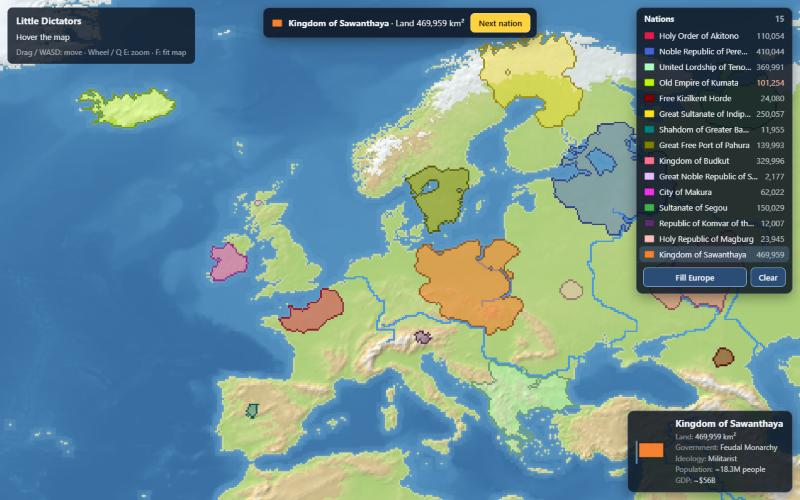
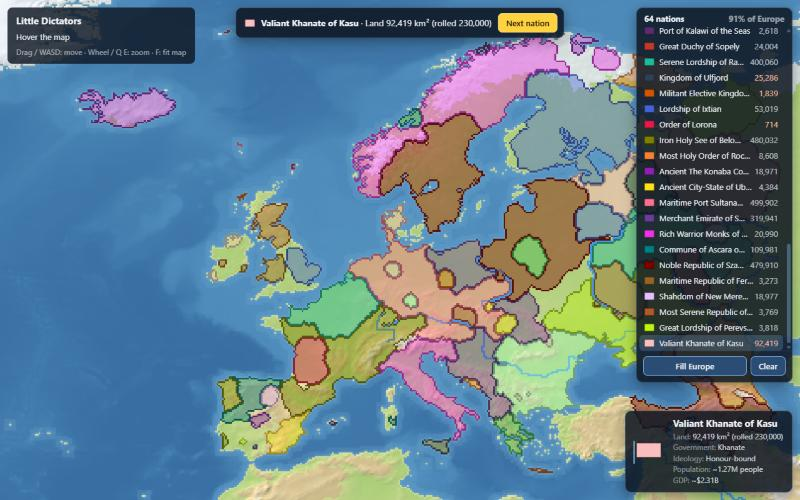
Fill Europe up to 90% of its land, with neighbour-aware colours
"Fill Europe" now keeps placing nations until fill.percent (90) of the
region's land is owned (usually 50-80 nations, ~0.1-0.3 s), capped by
maxNations and maxAttempts. Nations placed by Fill get a colour unlike the
nations their land actually touches. The nation list header shows
"64 nations · 91% of Europe" and the list scrolls. New screenshot and docs.

diff --git a/src/ui/placement.ts b/src/ui/placement.ts
@@ -1,7 +1,7 @@
 // Putting nations on the map (milestone 2d, the Europe test): after the wheel, click a spot
 // in Europe (or "Surprise me") and the nation's land grows from there. Then "Next nation"
 // goes back to the wheel. "Fill Europe" (for testing) rolls and places nations instantly
-// until there are about 15; "Clear" empties the map.
+// until about 90% of Europe's land is taken; "Clear" empties the map.
 //
 // The rules for how land grows are in src/game/territory.ts; this file is the screens and
 // buttons around them.
@@ -108,7 +108,7 @@ export class Placement {
       if (why) {
         this.note = why;
         this.update();
-      } else this.place(x, y, true);
+      } else this.place(x, y, "animate");
       return;
     }
     if (this.state === "idle" || this.state === "growing") {
@@ -155,21 +155,30 @@ export class Placement {
       this.update();
       return;
     }
-    this.place(spot[0], spot[1], true);
+    this.place(spot[0], spot[1], "animate");
   }
 
-  /** Places the waiting nation at (x, y) and grows its land (animated, or all at once). */
-  private place(x: number, y: number, animate: boolean): PlacedNation | null {
+  /**
+   * Places the waiting nation at (x, y) and grows its land: "animate" plays the growth,
+   * "instant" shows it at once, "fill" is for Fill (no screen updates; a nation without a
+   * colour gets one that stands out from its actual neighbours).
+   */
+  private place(x: number, y: number, how: "animate" | "instant" | "fill"): PlacedNation | null {
     const pending = this.pending;
     if (!pending) return null;
     const holding = this.territory.place(x, y, rolledArea(pending.nation), growthSeed(pending.nation, this.nations.length + 1));
     const placed: PlacedNation = { ...pending, holding };
+    if (!placed.color) placed.color = this.colorFor(holding.id);
     this.nations.push(placed);
     this.pending = null;
-    this.layer.setColor(holding.id, pending.color);
+    this.layer.setColor(holding.id, placed.color);
     this.note = "";
     this.opts.renderer.preview = null;
-    if (animate && !this.opts.reducedMotion) {
+    if (how === "fill") {
+      this.layer.reveal(holding.pixels);
+      return placed;
+    }
+    if (how === "animate" && !this.opts.reducedMotion) {
       this.state = "growing";
       // Longer for bigger nations, but never more than about two seconds.
       const ms = Math.min(2000, 700 + holding.pixels.length * 0.8);
@@ -230,36 +239,43 @@ export class Placement {
     this.begin(nation, color);
   }
 
-  /** Testing shortcut: rolls and places nations at random until there are `fillCount`, or no room is left. */
+  /**
+   * Testing shortcut: rolls and places nations at random spots until `fill.percent` of the
+   * region's land is owned. Late nations land in the gaps and end up smaller than rolled.
+   */
   private fill(): void {
     if (this.state === "wheel") return;
     this.finishGrowth();
-    const target = this.opts.data.fillCount;
+    const { percent, maxNations, maxAttempts } = this.opts.data.fill;
+    const started = performance.now();
     let full = false;
     let lastId = 0;
-    const started = performance.now();
-    // The nation waiting to be placed goes first.
-    if (this.pending) {
-      const spot = this.territory.freeSpot(this.region, this.rng, rolledArea(this.pending.nation));
-      if (spot) lastId = this.place(spot[0], spot[1], false)!.holding.id;
-      else full = true;
-    }
-    while (!full && this.nations.length < target) {
-      const nation = rollNation(this.opts.wheels, this.opts.mapName, createRng(this.nextSeed()));
+    const placeAnywhere = (nation: Nation, color: string): void => {
       const spot = this.territory.freeSpot(this.region, this.rng, rolledArea(nation));
       if (!spot) {
         full = true;
-        break;
+        return;
       }
-      this.pending = { nation, color: this.pickColor(spot) };
-      lastId = this.place(spot[0], spot[1], false)!.holding.id;
+      this.pending = { nation, color };
+      lastId = this.place(spot[0], spot[1], "fill")!.holding.id;
+    };
+    // The nation waiting to be placed goes first (it keeps the colour on its card).
+    if (this.pending) placeAnywhere(this.pending.nation, this.pending.color);
+    // Every placement takes at least one free pixel, so this always ends; the caps keep it short.
+    for (let tries = 0; !full && tries < maxAttempts && this.nations.length < maxNations; tries++) {
+      if (this.territory.ownedShare(this.region) * 100 >= percent) break;
+      placeAnywhere(rollNation(this.opts.wheels, this.opts.mapName, createRng(this.nextSeed())), "");
     }
-    if (import.meta.env.DEV) console.log(`Fill: ${this.nations.length} nations in ${Math.round(performance.now() - started)} ms`);
+    if (import.meta.env.DEV) {
+      const share = Math.round(this.territory.ownedShare(this.region) * 100);
+      console.log(`Fill: ${this.nations.length} nations, ${share}% of ${this.regionName}, in ${Math.round(performance.now() - started)} ms`);
+    }
     this.pending = null;
     this.state = "idle";
     this.note = full ? `No free land left in ${this.regionName}.` : "";
     if (lastId) this.showNation(lastId);
     this.update();
+    this.opts.requestRender();
   }
 
   private clear(): void {
@@ -288,36 +304,43 @@ export class Placement {
     return this.opts.seed !== undefined ? (this.opts.seed + n * 7919) >>> 0 : undefined;
   }
 
+  /** For a new nation before it's placed (its card shows it): the least-used colour. */
+  private pickColor(): string {
+    return this.bestColor(new Set());
+  }
+
+  /** For a nation placed by Fill: a colour unlike the nations its land actually touches. */
+  private colorFor(id: number): string {
+    const touching = new Set<string>();
+    for (const n of this.territory.neighbours(id)) {
+      const c = this.nations[n - 1]?.color;
+      if (c) touching.add(c);
+    }
+    return this.bestColor(touching);
+  }
+
   /**
-   * A colour no nation is using yet. If a spot is given, the one most unlike the colours of
-   * the nations nearby, so neighbours don't look alike.
+   * The colour that looks most different from `avoid` (neighbours' colours), preferring
+   * colours few nations use yet. With 60+ nations colours repeat, but not next to each other.
    */
-  private pickColor(spot?: [number, number]): string {
+  private bestColor(avoid: Set<string>): string {
     const list = this.opts.data.colors.list;
-    const used = new Set([...this.nations.map((n) => n.color), ...(this.pending ? [this.pending.color] : [])]);
-    const free = list.filter((c) => !used.has(c));
-    const choices = free.length ? free : list;
-    if (!spot) return free.length ? free[0] : list[this.nations.length % list.length];
-    const near = this.nations.filter((n) => this.distance(n.holding.start, spot) < 160).map((n) => hexToRgb(n.color));
-    if (!near.length) return choices[0];
-    let best = choices[0];
-    let bestScore = -1;
-    for (const c of choices) {
+    const uses = new Map<string, number>();
+    for (const n of [...this.nations, ...(this.pending ? [this.pending] : [])]) uses.set(n.color, (uses.get(n.color) ?? 0) + 1);
+    const avoidRgb = [...avoid].map(hexToRgb);
+    let best = list[0];
+    let bestScore = -Infinity;
+    for (const c of list) {
       const rgb = hexToRgb(c);
-      const score = Math.min(...near.map((o) => colorDistance(rgb, o)));
+      // How unlike the nearest neighbour colour it is (capped: past "clearly different" it doesn't matter).
+      const unlike = avoidRgb.length ? Math.min(250, ...avoidRgb.map((o) => colorDistance(rgb, o))) : 250;
+      const score = unlike - 40 * (uses.get(c) ?? 0);
       if (score > bestScore) {
         best = c;
         bestScore = score;
       }
     }
     return best;
-  }
-
-  private distance(a: [number, number], b: [number, number]): number {
-    const w = this.opts.map.width;
-    let dx = Math.abs(a[0] - b[0]);
-    if (this.opts.map.wraps) dx = Math.min(dx, w - dx);
-    return Math.hypot(dx, a[1] - b[1]);
   }
 
   private focusRegion(): void {
@@ -376,7 +399,7 @@ export class Placement {
       <header><span class="nl-title">Nations</span><span class="nl-count"></span></header>
       <ol class="nl-rows"></ol>
       <footer>
-        <button type="button" class="nl-fill" title="Testing shortcut: roll and place nations at random until there are ${this.opts.data.fillCount}">Fill ${escapeHtml(this.regionName)}</button>
+        <button type="button" class="nl-fill" title="Testing shortcut: roll and place nations at random until ${this.opts.data.fill.percent}% of ${escapeHtml(this.regionName)}'s land is taken">Fill ${escapeHtml(this.regionName)}</button>
         <button type="button" class="nl-clear" title="Remove every nation from the map">Clear</button>
       </footer>`;
     document.body.append(this.bar, this.list);
@@ -420,7 +443,9 @@ export class Placement {
   }
 
   private updateList(): void {
-    this.list.querySelector(".nl-count")!.textContent = String(this.nations.length);
+    const share = Math.round(this.territory.ownedShare(this.region) * 100);
+    this.list.querySelector(".nl-title")!.textContent = `${this.nations.length} ${this.nations.length === 1 ? "nation" : "nations"}`;
+    this.list.querySelector(".nl-count")!.textContent = `· ${share}% of ${this.regionName}`;
     const km = (v: number): string => Math.round(v).toLocaleString("en-US");
     this.list.querySelector(".nl-rows")!.innerHTML = this.nations
       .map((n) => {
@@ -434,6 +459,7 @@ export class Placement {
       })
       .join("");
     (this.list.querySelector(".nl-fill") as HTMLButtonElement).disabled = this.state === "wheel";
+    this.list.querySelector(".nl-rows li.selected")?.scrollIntoView({ block: "nearest" });
   }
 }
 

diff --git a/src/game/territory.ts b/src/game/territory.ts
@@ -30,7 +30,7 @@ export interface GrowthRules {
 export interface PlacementData {
   region: string;
   regions: Record<string, RegionData>;
-  fillCount: number;
+  fill: { percent: number; maxNations: number; maxAttempts: number };
   growth: GrowthRules;
   colors: { list: string[] };
 }
@@ -175,6 +175,38 @@ export class Territory {
 
   holding(id: number): Holding | undefined {
     return this.holdings[id - 1];
+  }
+
+  /** How much of the region's land is owned by someone (0..1), by real area. */
+  ownedShare(region: Region): number {
+    const { width } = this.map;
+    let total = 0;
+    let owned = 0;
+    for (const i of region.land) {
+      const a = this.areas[(i / width) | 0];
+      total += a;
+      if (this.owner[i] !== 0) owned += a;
+    }
+    return total > 0 ? owned / total : 0;
+  }
+
+  /** The ids of the nations whose land touches this one's (side by side, across the map's seam too). */
+  neighbours(id: number): Set<number> {
+    const found = new Set<number>();
+    const h = this.holding(id);
+    if (!h) return found;
+    const { width } = this.map;
+    for (const i of h.pixels) {
+      const x = i % width;
+      const y = (i - x) / width;
+      for (const [dx, dy] of [[1, 0], [-1, 0], [0, 1], [0, -1]]) {
+        const p = this.map.normalize(x + dx, y + dy);
+        if (!p) continue;
+        const other = this.owner[p[1] * width + p[0]];
+        if (other !== 0 && other !== id) found.add(other);
+      }
+    }
+    return found;
   }
 
   /**

diff --git a/src/ui/placement.css b/src/ui/placement.css
@@ -111,7 +111,7 @@
 
 #nation-list header {
   display: flex;
-  justify-content: space-between;
+  gap: 6px;
   padding: 8px 12px 6px;
   font-weight: 700;
 }
@@ -121,10 +121,15 @@
 }
 
 .nl-rows {
+  flex: 1 1 auto;
+  min-height: 0; /* lets the list scroll inside the panel instead of stretching it */
   margin: 0;
   padding: 0 4px;
   list-style: none;
   overflow-y: auto;
+  overscroll-behavior: contain;
+  scrollbar-width: thin;
+  scrollbar-color: rgba(127, 180, 230, 0.4) transparent;
 }
 
 .nl-rows:empty::before {
@@ -135,6 +140,7 @@
 }
 
 .nl-rows li {
+  flex: none;
   display: flex;
   align-items: center;
   gap: 8px;

diff --git a/README.md b/README.md
@@ -155,7 +155,7 @@ server only):
 
 ## Placing nations (Europe test)
 
-![Europe filled with 15 nations](docs/europe-filled.jpg)
+![Europe filled with 64 nations (91% of its land)](docs/europe-filled.jpg)
 
 After **Continue to map** the camera flies to Europe and asks where the nation goes. The
 nation card and the corner panel show its **colour**, which is its flag for now.
@@ -168,9 +168,15 @@ nation card and the corner panel show its **colour**, which is its flag for now.
   matters for now (a golden "Double land" simply means more land).
 - **Next nation** goes back to the wheel for another one. The list in the top-right corner
   has every nation made so far; click a row, or a nation on the map, to see it in the
-  corner panel. Hovering the map shows who owns the land.
+  corner panel (with 60+ nations the list scrolls). Its header shows how many nations
+  there are and how much of Europe's land they own, e.g. "64 nations · 91% of Europe".
+  Hovering the map shows who owns the land.
 - **Fill Europe** (a testing shortcut) rolls and places nations at random spots until
-  there are 15 (or no room is left). **Clear** removes them all.
+  **90% of Europe's land** is owned: usually 50–80 nations, a patchwork like the real
+  1500, in a fraction of a second. Each new nation goes into the biggest gap left, so the
+  late ones are squeezed in and end up smaller than they rolled. Fill picks colours so
+  that nations that touch never share one (with 60+ nations, colours repeat elsewhere).
+  **Clear** removes them all.
 
 **How land grows:** from the start spot the nation keeps taking the "cheapest" pixel it
 can reach next. Plains are cheap, highlands cost more, snow more again, mountains a lot,
@@ -185,7 +191,7 @@ fills Iceland gets ~101,000 km²; the real Iceland is 103,000 km².) The same se
 same clicks always give the same map.
 
 Tune it in **`public/data/placement.json`**: the region's outline (longitude/latitude
-points), how many nations **Fill** makes, the cost of each terrain, the wobble, and the
+points), how much of the land **Fill** covers (`fill.percent`, plus caps on nations and tries), the cost of each terrain, the wobble, and the
 colour list.
 
 ## Controls

diff --git a/CHANGELOG.md b/CHANGELOG.md
@@ -21,10 +21,12 @@ English. Add your entry under **Unreleased** in the same pull request as the cha
   ("101,254 km² (rolled 240,000)"). **Next nation** makes another one.
 - **Each nation has its own colour**, used as its flag for now (on the card and the
   corner panel) and drawn over its land with a darker border line.
-- **A list of nations** in the top-right corner. Click a row or a nation on the map to see
-  it in the corner panel; hovering the map shows who owns the land.
-- **Fill Europe** (testing shortcut) rolls and places nations at random until there are
-  15; **Clear** starts over. The region, growth costs and colours are in
+- **A list of nations** in the top-right corner, with how much of Europe is owned
+  ("64 nations · 91% of Europe"); it scrolls when there are many. Click a row or a nation
+  on the map to see it in the corner panel; hovering the map shows who owns the land.
+- **Fill Europe** (testing shortcut) rolls and places nations at random until 90% of
+  Europe's land is owned (usually 50–80 nations, late ones squeezed into the gaps), with
+  colours chosen so touching nations never match; **Clear** starts over. The region, growth costs and colours are in
   `public/data/placement.json`.
 - **The wheels are now set in 1500.** 11 spins: Government, Land size, Population
   density, Wealth, Bonus resources, Ideology, History, Stability, Popularity, a Bonus
